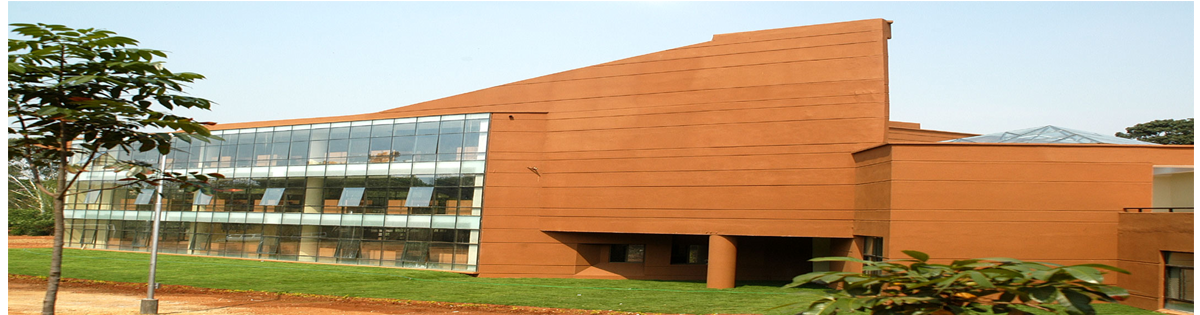
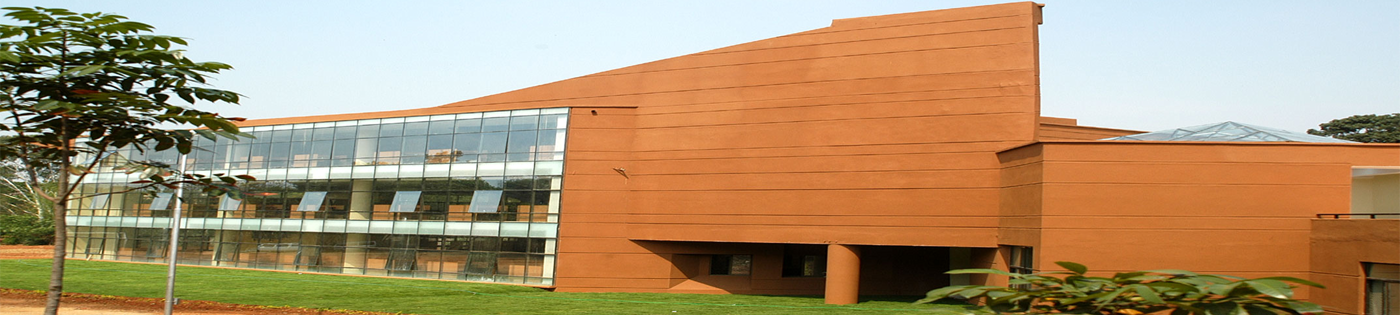
Adds additional images in slider

diff --git a/index.html b/index.html
@@ -105,20 +105,22 @@
             <li data-target="#carousel-example-generic" data-slide-to="0" class="active"></li>
             <li data-target="#carousel-example-generic" data-slide-to="1"></li>
             <li data-target="#carousel-example-generic" data-slide-to="2"></li>
+            <li data-target="#carousel-example-generic" data-slide-to="3"></li>
+            <li data-target="#carousel-example-generic" data-slide-to="4"></li>
           </ol>
+
          
           <!-- Wrapper for slides -->
           <div class="carousel-inner">
             <div class="item active">
               <img src="img/slider/image1.png" alt="...">
               <div class="carousel-caption">
-                <span class="skills"><h2>Consilience 2016</h2></span>
-                <hr class="star-primary">
-                <span class="skills"><h2>A conference on open access & IP</h2></span>
+                <h1>Consilience 2016</h1>
+                <h3>A conference on open access & IP</h3>
               </div>
             </div>
             <div class="item">
-              <img src="img/slider/image1.png" alt="...">
+              <img src="img/slider/image2.png" alt="...">
               <div class="carousel-caption">
                 <span class="skills"><h2>Consilience 2016</h2></span>
                 <hr class="star-primary">
@@ -126,7 +128,27 @@
               </div>
             </div>
             <div class="item">
-              <img src="img/slider/image1.png" alt="...">
+              <img src="img/slider/image3.png" alt="...">
+              <div class="carousel-caption">
+                <span class="skills"><h2>Consilience 2016</h2></span>
+                <hr class="star-primary">
+                <span class="skills"><h2>A conference on open access & IP</h2></span>
+
+              </div>
+            </div>
+
+            <div class="item">
+              <img src="img/slider/image4.png" alt="...">
+              <div class="carousel-caption">
+                <span class="skills"><h2>Consilience 2016</h2></span>
+                <hr class="star-primary">
+                <span class="skills"><h2>A conference on open access & IP</h2></span>
+
+              </div>
+            </div>
+
+            <div class="item">
+              <img src="img/slider/image5.png" alt="...">
               <div class="carousel-caption">
                 <span class="skills"><h2>Consilience 2016</h2></span>
                 <hr class="star-primary">
@@ -144,6 +166,7 @@
             <span class="glyphicon glyphicon-chevron-right"></span>
           </a>
         </div> <!-- Carousel -->
+        </section>
 
         
     </section>
